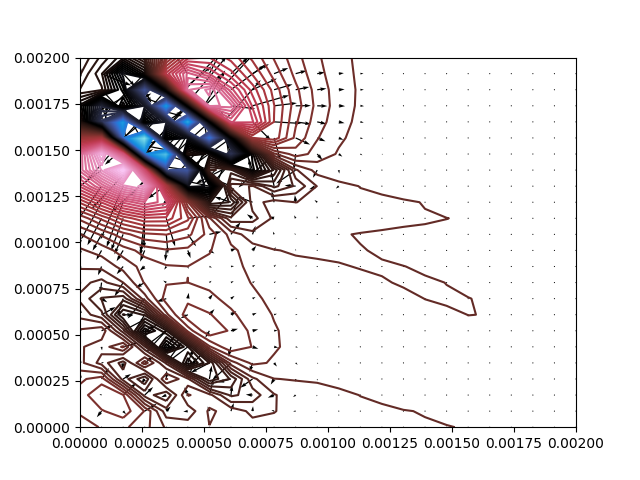
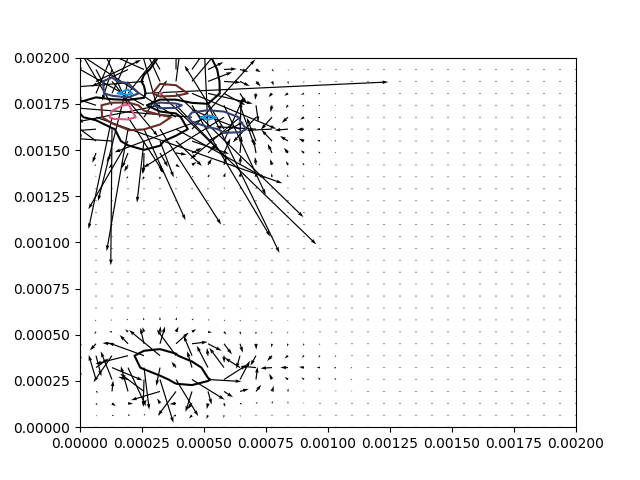
Revert "Changes on plots. Same PDE solver."
This reverts commit 6a15e6b600eb9d492f26608e1bc5109f736aab72.

diff --git a/fluid_solver.py b/fluid_solver.py
@@ -8,7 +8,7 @@ def DDx(M,dx,Bound_left = 0,Bound_right = 0):
     for j in range(1,J-1):
         if j == J-1:
             #ddxM[:,j] = (Bound_right-2*M[:,j]+M[:,j-1])/dx**2
-            ddxM[:,j] = 0 ## Intuition. No curvature on the derivative because free wall
+            ddxM[:,j] = ddxM[:,j-1]  ## Intuition. No curvature on the derivative because free wall
         elif j == 0:
             ddxM[:,j] = (M[:,j+1]-2*M[:,j]+Bound_left)/dx**2
         else:
@@ -32,7 +32,6 @@ def Dx(M,dx,Bound_left = 0,Bound_right = 0):
     dxM = np.zeros([I,J])
     for j in range(1,J-1):
         if j == J-1:
-            #ddxM[:,j] = (Bound_right-2*M[:,j]+M[:,j-1])/dx**2
             dxM[:,j] = dxM[:,j-1] ## Intuition. No curvature on the derivative because free wall
         elif j == 0:
             dxM[:,j] = (M[:,j+1]-Bound_left)/dx
@@ -59,9 +58,9 @@ def DDx_nobc(M,dx):
     ddxM = np.zeros([I,J])
     for j in range(1,J-1):
         if j == J-1:
-            ddxM[:,j] = 0 ## Intuition. No curvature on the derivative because free wall
+            ddxM[:,j] = ddxM[:,j-1] ## Intuition. No curvature on the derivative because free wall
         elif j == 0:
-            ddxM[:,j] = 0
+            ddxM[:,j] = ddxM[:,j+1]
         else:
             ddxM[:,j] = (M[:,j+1]-2*M[:,j]+M[:,j-1])/dx**2
     return ddxM
@@ -71,9 +70,9 @@ def DDy_nobc(M,dy):
     ddyM = np.zeros([I,J])
     for i in range(1,I-1):
         if i == I-1:
-            ddyM[i,:] = 0
+            ddyM[i,:] = ddyM[i-1,:]
         elif i == 0:
-            ddyM[i,:] = 0
+            ddyM[i,:] = ddyM[i+1,:]
         else:
             ddyM[i,:] = (M[i+1,:]-2*M[i,:]+M[i-1,:])/dy**2
     return ddyM
@@ -157,7 +156,7 @@ class pde_fluid_solver():
         count = 0
         old_rel_error = np.nan
         while not_good and count < max_reps:
-            for k in range(1,repeats):
+            for k in range(repeats):
                     #simpler version commented, but boundary condition in p=p0
                     #for i in range(1,I-1):
                     #    for j in range(1,J-1):
@@ -242,16 +241,25 @@ class pde_fluid_solver():
         duxuy = np.zeros(self.dim)
         ## Second step simulation !!!
         for k in tqdm(range(1,N)):
+            
+            ## Step 1 advection
             uxy = ux[:,:,k-1]*uy[:,:,k-1]
             duxuy = Dx(uxy,dx)+Dy(uxy,dy,Bound_up=bc_x_up*bc_y_up,Bound_down=bc_x_down*bc_y_down)
             ux_s  = ux[:,:,k-1]-dt*duxuy
             uy_s = uy[:,:,k-1]-dt*duxuy
-            ux_ss = ux_s+dt*visc*(DDx_nobc(ux_s,dx)+DDy_nobc(ux_s,dy))
+
+            ## Step 2 diffusion
+            ux_ss = ux_s+dt*visc*((1+ux[:,:,k-1]**2*dt/visc)*DDx_nobc(ux_s,dx)+(1+uy[:,:,k-1]**2*dt/visc)*DDy_nobc(ux_s,dy))
             uy_ss = uy_s+dt*visc*(DDx_nobc(ux_s,dx)+DDy_nobc(uy_s,dy))
+
+            ##Step 3 compute p
             p[:,:,k]  = self.presure_solver(p[:,:,k-1],dens*dt**-1*(Dx_nobc(ux_ss,dx)+Dy_nobc(uy_ss,dy)),max_reps=repeat_jac,precision=precision_jac)
+
+            ## Step 4 calculate new velocity
             ux[:,:,k] = ux_ss-dt*dens**-1*Dx_nobc(p[:,:,k],dx)
             uy[:,:,k] = uy_ss-dt*dens**-1*Dy_nobc(p[:,:,k],dy)
-            # Boundary conditions
+
+            # Step 5 Boundary conditions
             ux[0,:,k]  = bc_x_up
             ux[-1,:,k] = bc_x_down
             uy[0,:,k]  = bc_y_up
@@ -261,6 +269,67 @@ class pde_fluid_solver():
             # ux[:,-1,k] = nothing needed, free wall
             # uy[:,0,k]  = nothing needed, slipping wall
             # uy[:,-1,k] = nothing needed, free wall
+        self.ux = np.concatenate((self.ux,ux),axis = 2)
+        self.uy = np.concatenate((self.uy,uy),axis = 2)
+        self.p = np.concatenate((self.p,p),axis = 2)
+
+    def solve_navier_stokes_mine(self,N = np.NaN,precision_jac = 0.1,repeat_jac = 100): # Advance N times Navier Stokes equations.
+        if N == np.NaN:
+            N = self.N_time
+        ## First step. Initialize simulation
+        ux = np.zeros([self.dim[0],self.dim[1],N])
+        uy = np.zeros([self.dim[0],self.dim[1],N])
+        p = np.zeros([self.dim[0],self.dim[1],N])
+        dt = self.dt
+        dx,dy = self.dx,self.dy
+        visc = self.initial_condition.viscosity
+        dens = self.initial_condition.density
+        ux[:,:,0] = self.ux[:,:,-1]
+        uy[:,:,0] = self.uy[:,:,-1]
+        p[:,:,0]  = self.p[:,:,-1]
+        # Preinitialise in RAM memory u star, u star stat
+        ux_s = np.zeros(self.dim)
+        ux_ss = np.zeros(self.dim)
+        uy_s = np.zeros(self.dim)
+        uy_ss = np.zeros(self.dim)
+        ## Load boundary contition of the problem up and down (velocities in the slot and coflow)
+        bc_x_up = self.bc_ux.up
+        bc_y_up = self.bc_uy.up
+        bc_x_down = self.bc_ux.down
+        bc_y_down = self.bc_uy.down
+        ## Empty matrix that is gonna be used
+        duxuy = np.zeros(self.dim)
+        ## Second step simulation !!!
+        for k in tqdm(range(1,N)):
+            
+            ## Step 1 advection
+            
+            ux_s  = ux[:,:,k-1]-dt*(ux[:,:,k-1]*Dx(ux[:,:,k-1],dx)+uy[:,:,k-1]*Dy(ux[:,:,k-1],dy,Bound_down=bc_x_down,Bound_up=bc_x_up))
+            uy_s = uy[:,:,k-1]-dt*(uy[:,:,k-1]*Dx(ux[:,:,k-1],dx)+uy[:,:,k-1]*Dy(uy[:,:,k-1],dy,Bound_down=bc_y_down,Bound_up=bc_y_up))
+
+            ## Step 2 diffusion
+            ux_ss = ux_s+dt*visc*(DDx(ux[:,:,k-1],dx)+DDy(ux[:,:,k-1],dy,Bound_down=bc_x_down,Bound_up=bc_x_up))
+            uy_ss = uy_s+dt*visc*(DDx(uy[:,:,k-1],dx)+DDy(uy[:,:,k-1],dy,Bound_down=bc_y_down,Bound_up=bc_y_up))
+
+            ##Step 3 compute p
+            p[:,:,k]  = -self.presure_solver(p[:,:,k-1],-dens/dt*(Dx_nobc(ux_ss,dx)+Dy_nobc(uy_ss,dy)),max_reps=repeat_jac,precision=precision_jac)
+
+            ## Step 4 calculate new velocity
+            ux[:,:,k] = ux_ss-dt*dens**-1*Dx_nobc(p[:,:,k],dx)
+            uy[:,:,k] = uy_ss-dt*dens**-1*Dy_nobc(p[:,:,k],dy)
+            
+            # Step 5 Boundary conditions
+
+            ux[0,:,k]  = bc_x_down
+            ux[-1,:,k] = bc_x_up
+            uy[0,:,k]  = bc_y_down
+            uy[-1,:,k] = bc_y_up
+
+            ux[:,0,k]  = np.zeros(self.dim[1])
+            # ux[:,-1,k] = nothing needed, free wall
+            # uy[:,0,k]  = nothing needed, slipping wall
+            # uy[:,-1,k] = nothing needed, free wall
+
         self.ux = np.concatenate((self.ux,ux),axis = 2)
         self.uy = np.concatenate((self.uy,uy),axis = 2)
         self.p = np.concatenate((self.p,p),axis = 2)

diff --git a/main.py b/main.py
@@ -5,13 +5,13 @@ import os
 from fluid_solver import *
 import cmasher as cmr
 
-u_slot = 1e-2
-u_coflow = 0.5e-2
-N_space = 32
-N_time = 14
+u_slot = 1
+u_coflow = 0.5
+N_space = 24
+N_time = 15
 Lx,Ly = 2e-3,2e-3
-dt = 1e-5#100*(np.mean([u_slot,u_coflow])/Lx*N_space**2)**-1
-
+dt = 5e-7#100*(np.mean([u_slot,u_coflow])/Lx*N_space**2)**-1
+print(dt)
 [X,Y] = np.meshgrid(np.linspace(0,Lx,N_space),np.linspace(0,Lx,N_space))
 up_bc_uy = np.ones(N_space)
 down_bc_uy = np.ones(N_space)
@@ -64,6 +64,6 @@ path = '/Users/Pacopol/Desktop/Plasma Physics and Fusion Master/Numerical Method
 
 for k in np.arange(1,N_time,1):
     fig = plt.figure()
-    plt.contour(X,Y,solver.p[:,:,k],cmap=cmr.redshift,levels=5)
+    plt.contour(X,Y,solver.p[:,:,k],cmap=cmr.redshift,levels=100)
     plt.quiver(X,Y,solver.ux[:,:,k],solver.uy[:,:,k])
     fig.savefig(path + '/' + 'frame%i.png'%(k))
